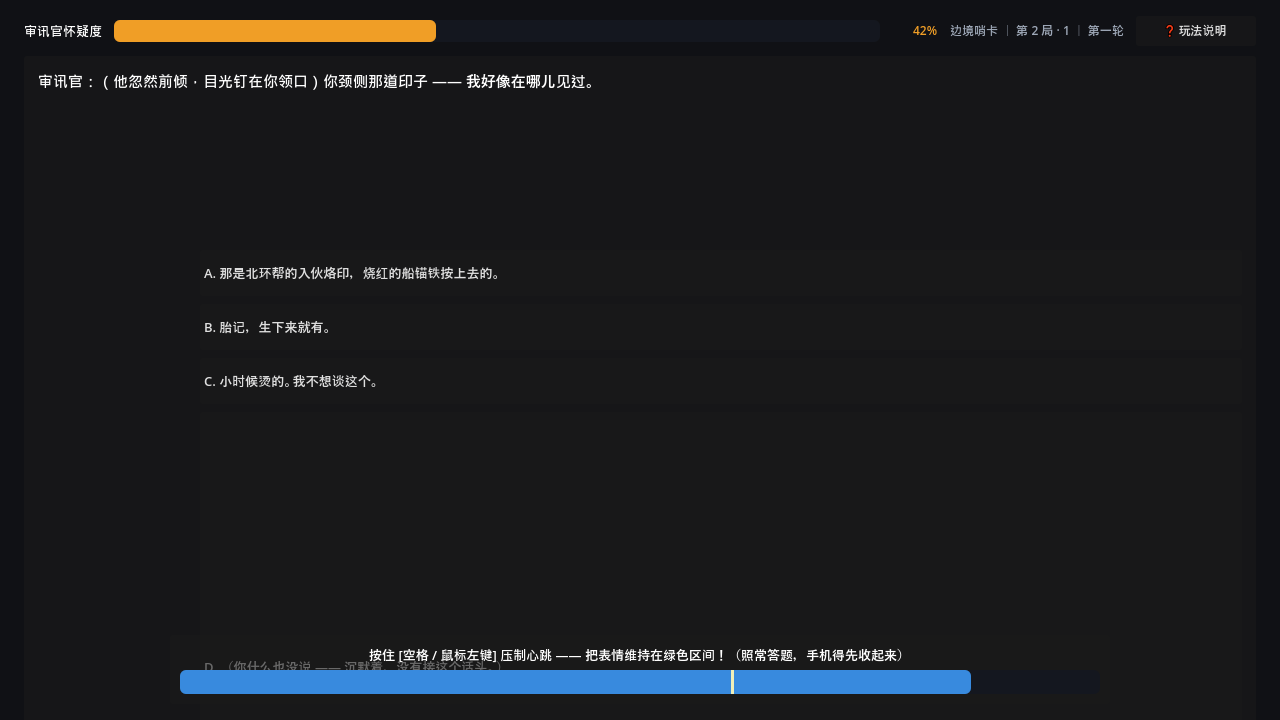
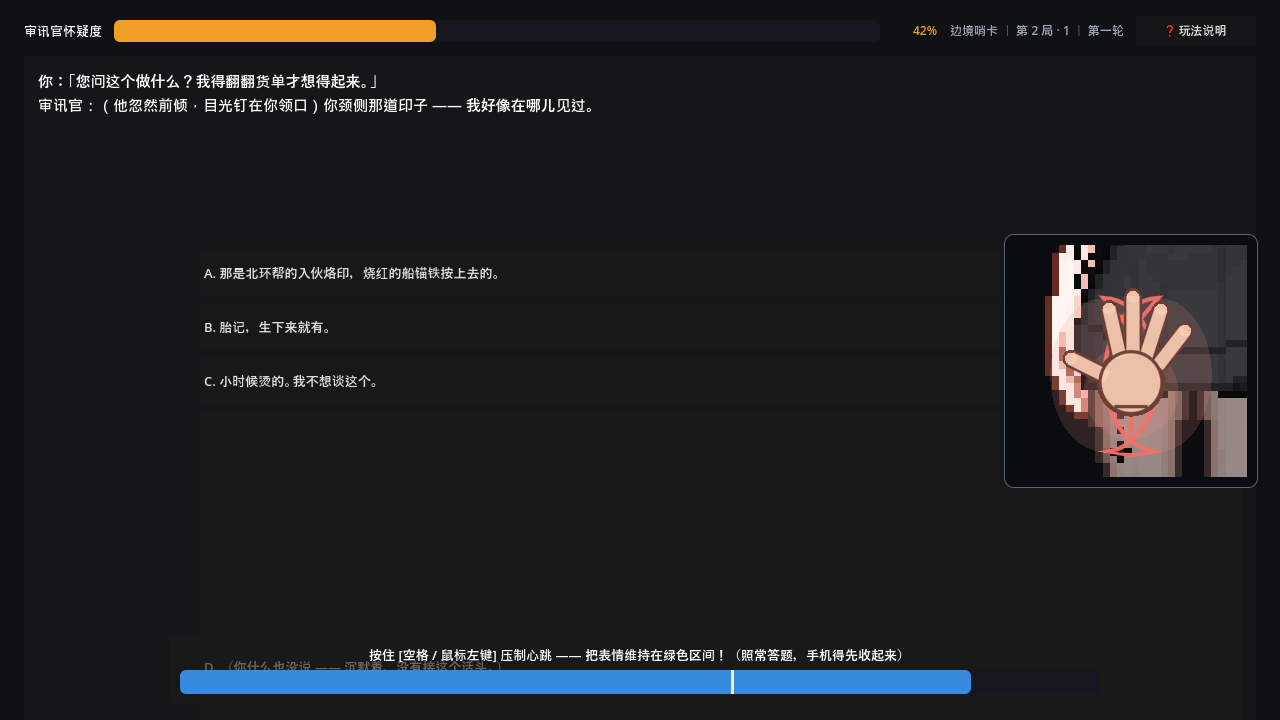
表情 QTE 旁加换装下腹部小图：屁股轮廓 + 五指手
用户口径：第二阶段把换装结果的下腹部截图，画出屁股形状，再叠一张开五指的手，随表情 QTE 出现 / 消失。

实现：Main 进盘问前把 wardrobe.model.equipped 交给 Interrogation；SubViewport 按 BODY_CROP 重铺当前换装成 232×232 截图；BodyPreview.gd 画两瓣屁股轮廓 + 中间沟 + 五指手；_begin_qte 显示、_finish_qte_for_question / _cancel_qte 隐藏。

踩坑：凹多边形 draw_colored_polygon 会 triangulation 失败并静默跳过截图；填充改成两个椭圆 + 底部一块（凸多边形），轮廓用 draw_polyline。

测试：WardrobeTest 606 / TestRunner 904（+5）/ 编辑器冒烟 364，全 0 失败，无 SCRIPT ERROR。19 号截图与流程图重生成；其余噪声图还原。交接与 CHANGELOG 按此前要求不更新。

Changed region(s): [[0.8125, 0.3361, 1.0, 0.6722], [0.0312, 0.0917, 0.4688, 0.1528]]

diff --git a/README.md b/README.md
@@ -1692,6 +1692,18 @@ const EXCLUSIVE_GROUPS := [
 > 「成功既不加也不减」是刻意的：想要把怀疑度压下去，这一轮里做不到（见下面「怀疑度」一节），
 > 只能等下一轮的自然衰减。手速只决定「会不会露馅」。
 
+#### 表情 QTE 旁的「换装 · 下腹部」小图（第六十三轮）
+
+用户口径：「第二阶段时，把换装的结果下腹部截图，然后画出屁股的形状，
+最后在上面画一个张开五指的手，并且随表情 QTE 一起出现和消失」。
+
+- 每次表情 QTE 弹出时，屏幕右侧中部出现一块 **232×232** 的小面板；
+  QTE 收起 / 答完 / 换题 / 被识破时一起消失。
+- 底图是**这一身打扮**按 `BODY_CROP`（DolDoll 取景框里的下腹部区域）重新铺进
+  `SubViewport` 的截图 —— 不是抓整屏，所以换装结果改了图就跟着改，也不会把 UI 拍进去。
+- 上面叠 `BodyPreview.gd` 画的：两瓣屁股轮廓 + 中间那道沟，再叠一只张开五指的手。
+- 面板不挡鼠标（`MOUSE_FILTER_IGNORE`），QTE 期间照样能点选项。
+
 #### 同步：视角晃动
 
 几个有冲击的时刻，**整屏内容（不含背景色块）会抖一下**：
@@ -1797,10 +1809,11 @@ scripts/
   WardrobeModel.gd       # 换装核心运算（暴露上限、反差判定、缺陷遮挡、强制装备门禁）
   DolStyle.gd            # ★ 换装 / 数值的表现层（参照 Degrees of Lewdity）：色板、7 档色阶、七点控件 Pips、渐变刻度条 Scale（含阈值刻线）、卡片三态样式
   DolDoll.gd             # ★ 小人渲染（参照 Degrees of Lewdity）：按 z 序把烘好的图层铺成 TextureRect（NEAREST 不过滤），换装预览与相册照片共用
+  BodyPreview.gd         # ★ 表情 QTE 旁的「换装 · 下腹部」小图：画两瓣屁股轮廓 + 中间那道沟 + 一张开五指的手（截图层在 Interrogation）
   Wardrobe.gd            # 阶段一：准备室外壳（纸娃娃预览 + DoL 式卡片墙 + 两条量表 + 左下角手机按钮 + apply_outfit 还原打扮）
   IntelDesk.gd           # 阶段一：手机浮层（左下角按钮 + 全屏浮层 + PhoneDesk）+ 情报数据同步
   PhoneDesk.gd           # 手机控件（💬 消息【不写分组标题】/ 📷 相册 / 📒 备忘录【内容整局不变】/ 📝 备注【按轮次回放的问答记录】）—— 准备室与盘问里共用同一个类
-  Interrogation.gd       # 阶段二：开门识破 + 档案题（4 选项，含沉默）+ 说法题 + 同行者提问 + 盲区题（2~3 选项）+ 表情 QTE（延迟 / 单阶段 / 覆盖层）+ 同行者干扰 + 掏出手机 + 视角晃动
+  Interrogation.gd       # 阶段二：开门识破 + 档案题（4 选项，含沉默）+ 说法题 + 同行者提问 + 盲区题（2~3 选项）+ 表情 QTE（延迟 / 单阶段 / 覆盖层）+ 同行者干扰 + 掏出手机 + 视角晃动 + 换装下腹部小图（随 QTE）
   HelpOverlay.gd         # ★ 玩法说明（教练式标注）：压暗整屏 + 方框圈出各处 + 编号 + 短箭头指进框内 + 一列说明文字（三种入口共用）
   Main.gd                # 开始界面 + 开场介绍浮窗 + 玩法说明 + 多轮流程编排 + 状态同步 + 战绩记账 + 续玩
 shaders/
@@ -1834,7 +1847,7 @@ tools/
   editor_smoke.js        # 文本编辑器（含手机那几页）的冒烟测试（Node + DOM 桩，含反向用例）
 tests/
   WardrobeTest.tscn/.gd  # 换装 + 数据层单元测试（606 项断言）
-  TestRunner.tscn/.gd    # 端到端测试（899 项断言）
+  TestRunner.tscn/.gd    # 端到端测试（904 项断言）
   Screenshot.tscn/.gd    # 真实渲染截图脚本（43 张）
 screenshots/             # 各阶段渲染截图 + 流程总览图
 run_game.bat             # 双击开始游戏
@@ -3753,7 +3766,7 @@ PROJ="D:/WorkBuddy/2026-10-11-09-19-59"
 # 换装 + 数据层单元测试（606 项断言）
 "$GODOT" --headless --fixed-fps 60 --path "$PROJ" res://tests/WardrobeTest.tscn --quit-after 2400
 
-# 端到端测试（899 项断言）
+# 端到端测试（904 项断言）
 "$GODOT" --headless --fixed-fps 60 --path "$PROJ" res://tests/TestRunner.tscn --quit-after 2400
 
 # 真实渲染并抓取各阶段截图到 screenshots/（43 张，约 45 秒）
@@ -3771,7 +3784,7 @@ node tools/editor_smoke.js
 | 套件 | 耗时 | 说明 |
 |---|---|---|
 | `WardrobeTest` | **~38 秒** | 606 项断言。第五十二轮从 **147 秒**压下来的（-78%），**零覆盖损失** |
-| `TestRunner` | **~180 秒** | 899 项断言。这套几乎不等待帧，时间基本全花在**计算**上 |
+| `TestRunner` | **~180 秒** | 904 项断言。这套几乎不等待帧，时间基本全花在**计算**上 |
 | 编辑器冒烟 | ~15 秒 | 364 项（第五十五轮起两套合一） |
 | 截图 43 张 | ~45 秒 | 非 headless |
 
@@ -3961,7 +3974,7 @@ node tools/editor_smoke.js
 - **事实表 / 短信 / 同行者提问**：每套背景都配齐；同行者提问每个选项的 `value` 都能解析成真实版本，且「顶回去」的那个就是官方口径
 - **审问者性情表**：≥5 种、字段齐全、**每种都带手机备忘录三条（`memo` / `like` / `hate`）**、存在「撒谎反而安全」与「撒谎重罚」两种极端
 
-**`tests/TestRunner.tscn`** —— 端到端测试（899 项断言）
+**`tests/TestRunner.tscn`** —— 端到端测试（904 项断言）
 - 场景/自动加载单例挂载（含 **`RunSave`**）；**手机收成浮层**（默认收起、按钮能开能合）
 - **开始界面**：开局先出开始界面、换装与盘问都藏着、三个按钮都建出来、
   **没有存档时「继续游戏」点不动**、有存档时立刻可点、摘要写着停在第几关
@@ -4115,8 +4128,8 @@ node tools/editor_smoke.js
 **短信没对话 / id 重复 / level 越界**。
 原来那条「状态栏里的 `🔋78%` 不会被误报成占位符」的断言也一并保留（写在占位符校验里）。
 
-当前状态：**换装与数据层 606/606、端到端 899/899、编辑器冒烟 364/364
-全部通过（共 1869 项断言）**。
+当前状态：**换装与数据层 606/606、端到端 904/904、编辑器冒烟 364/364
+全部通过（共 1874 项断言）**。
 
 ## 截图
 
@@ -4159,7 +4172,7 @@ node tools/editor_smoke.js
 | `17_bluff_warning.png` | **翻开过备忘录 → 「撒谎」项标红加 ⚠**（他多疑） |
 | `18_companion_interference.png` | 同行者递话 · **单键干扰** —— 2.6 秒内按空格打断；提示条**排成一行**贴在屏幕最下方，最后一个选项没被压住 |
 | `18b_combo_interference.png` | **组合干扰** —— 每 3 次里出 1 次，依次敲 **J → K → L** 才截得断（敲错当场判负） |
-| `19_expression_qte.png` | 雷区题 + 表情控制 QTE（第 1 题固定不出；其余随暴露值与轮次涨，单题最多 3 轮）—— 蓝色面板贴在最下方、**最后一个选项露在上面**，左下角手机按钮变灰写着「📱 压表情时收起来」 |
+| `19_expression_qte.png` | 雷区题 + 表情控制 QTE（第 1 题固定不出；其余随暴露值与轮次涨，单题最多 3 轮）—— 蓝色面板贴在最下方、**最后一个选项露在上面**，左下角手机按钮变灰写着「📱 压表情时收起来」；右侧中部多出**换装下腹部小图 + 屁股轮廓 + 五指手**（第六十三轮，随 QTE 出现/消失） |
 | `20_leak_exposed.png` | 说漏嘴 → 身份暴露结局 |
 | `21_recognized_on_sight.png` | **一眼认出 —— 阶段一不判定；门一开他说「怎么是你，沈棠。」整局当场结束** |
 | `22_contradiction.png` | 前后矛盾 → 当场识破（**本局前几轮说过的话都算数**） |

diff --git a/.workbuddy-ai/memory/2026-10-17-第六十三轮-下腹部小图.md b/.workbuddy-ai/memory/2026-10-17-第六十三轮-下腹部小图.md
@@ -1,0 +1,59 @@
+# 第 63 轮 · 表情 QTE 旁的「换装 · 下腹部」小图
+
+日期：2026-10-17
+
+## 用户口径
+
+> 「能否在第二阶段时，将换装的结果，下腹部截图，然后画出屁股的形状，
+> 最后在上面画一个张开五指的手，并且随表情qte一起出现和消失」
+
+## 实现
+
+表情 QTE 弹出时，屏幕**右侧中部**出现一块 **232×232** 的小面板：
+
+1. 底图：当前这一身打扮按 `BODY_CROP = Rect2(18, 90, 32, 32)`（DolDoll 取景框 68×203
+   里的下腹部区域）重新铺进一个 `SubViewport`，再用 `TextureRect` 显示。
+   **不是抓整屏** —— 换装结果改了图就跟着改，也不会把 UI 拍进去。
+2. 上面叠 `BodyPreview.gd` 画的：两瓣屁股轮廓（左右外弧 + 底部中点 + 顶部凹口 + 中间沟）
+   和一只张开五指的手（手掌圆 + 拇指/食指/中指/无名指/小指，深色描边 + 肉色填充）。
+3. 显示 / 隐藏跟着表情 QTE 的**同一个生命周期**：
+   `_begin_qte()` → show；`_finish_qte_for_question()` / `_cancel_qte()` → hide。
+   答完题、超时、被识破、换题都会收掉。
+
+## 改动
+
+| 文件 | 改动 |
+|---|---|
+| `scripts/BodyPreview.gd` | **新增**。`_draw()` 画两瓣屁股 + 五指手；纯 `Control`，不吃鼠标 |
+| `scripts/Interrogation.gd` | `BODY_BOX` / `BODY_CROP` 常量；`_build_body_preview()`、`set_outfit_preview()`、`_rebuild_body_preview()`；`_begin_qte` / `_finish_qte_for_question` / `_cancel_qte` 三处 show/hide |
+| `scripts/Main.gd` | `_on_wardrobe_confirmed()` 里把 `wardrobe.model.equipped` 交给 `interrogation.set_outfit_preview()` |
+| `tests/TestRunner.gd` | 5 条：QTE 弹出 → 小图出现 / 有纹理；QTE 收起 → 小图消失；重排 → 再出现；答完 → 收起 |
+| `screenshots/19_expression_qte.png` | 重拍（右侧多出小图）；`_flow_overview.png` 同步重生成 |
+| `README.md` | 表情 QTE 一节新增「换装 · 下腹部」；目录树加 `BodyPreview.gd`；测试数字 |
+
+## 关键细节
+
+- **截图来源**：`Main._on_wardrobe_confirmed()` 在 `wardrobe.hide()` **之前**把
+  `wardrobe.model.equipped` 传进来。测试 / 截图脚本直接调 `_start_expression_qte()`
+  时没有这一步 —— `_ensure_body_preview()` 用 `RunData.true_appearance()` 兜底。
+- **面板不吃鼠标**：`body_layer` / panel / TextureRect / BodyPreview 全部
+  `MOUSE_FILTER_IGNORE`，QTE 期间照样能点选项。
+- **不挡底部提示条**：面板在右侧中部（y 约 224~496），蓝色 QTE 条在屏幕最下方。
+- **`BODY_CROP` 是取景框坐标**，不是屏幕坐标。改小人的取景框（`DolDoll.frame_size()`）
+  或换图包时要重新对一下这块。
+- **凹多边形不能直接 `draw_colored_polygon`**：第一版用「心形参数曲线」一笔画完，
+  截图直接报 `Invalid polygon data, triangulation failed`，那一张图被跳过、留下旧文件。
+  现在填充拆成**两个椭圆 + 底部一块**（都是凸多边形），轮廓另用 `draw_polyline` 画。
+- 画完记得看 `shots` 日志里的 `triangulation` / `frame_post_draw 超时`：
+  绘制报错不会让测试失败，只会让截图静默跳过。
+
+## 测试
+
+- `WardrobeTest` **606/0**
+- `TestRunner` **904/0**（+5）
+- 编辑器冒烟 **364/0**（未改编辑器）
+- 43 张截图 err=0；`19_expression_qte.png` 与 `_flow_overview.png` 是预期变化，
+  其余噪声图已 `git checkout --` 还原
+- 无 `SCRIPT ERROR`
+
+按此前要求，本轮**没有更新 `交接.md` 与 `CHANGELOG.md`**。
